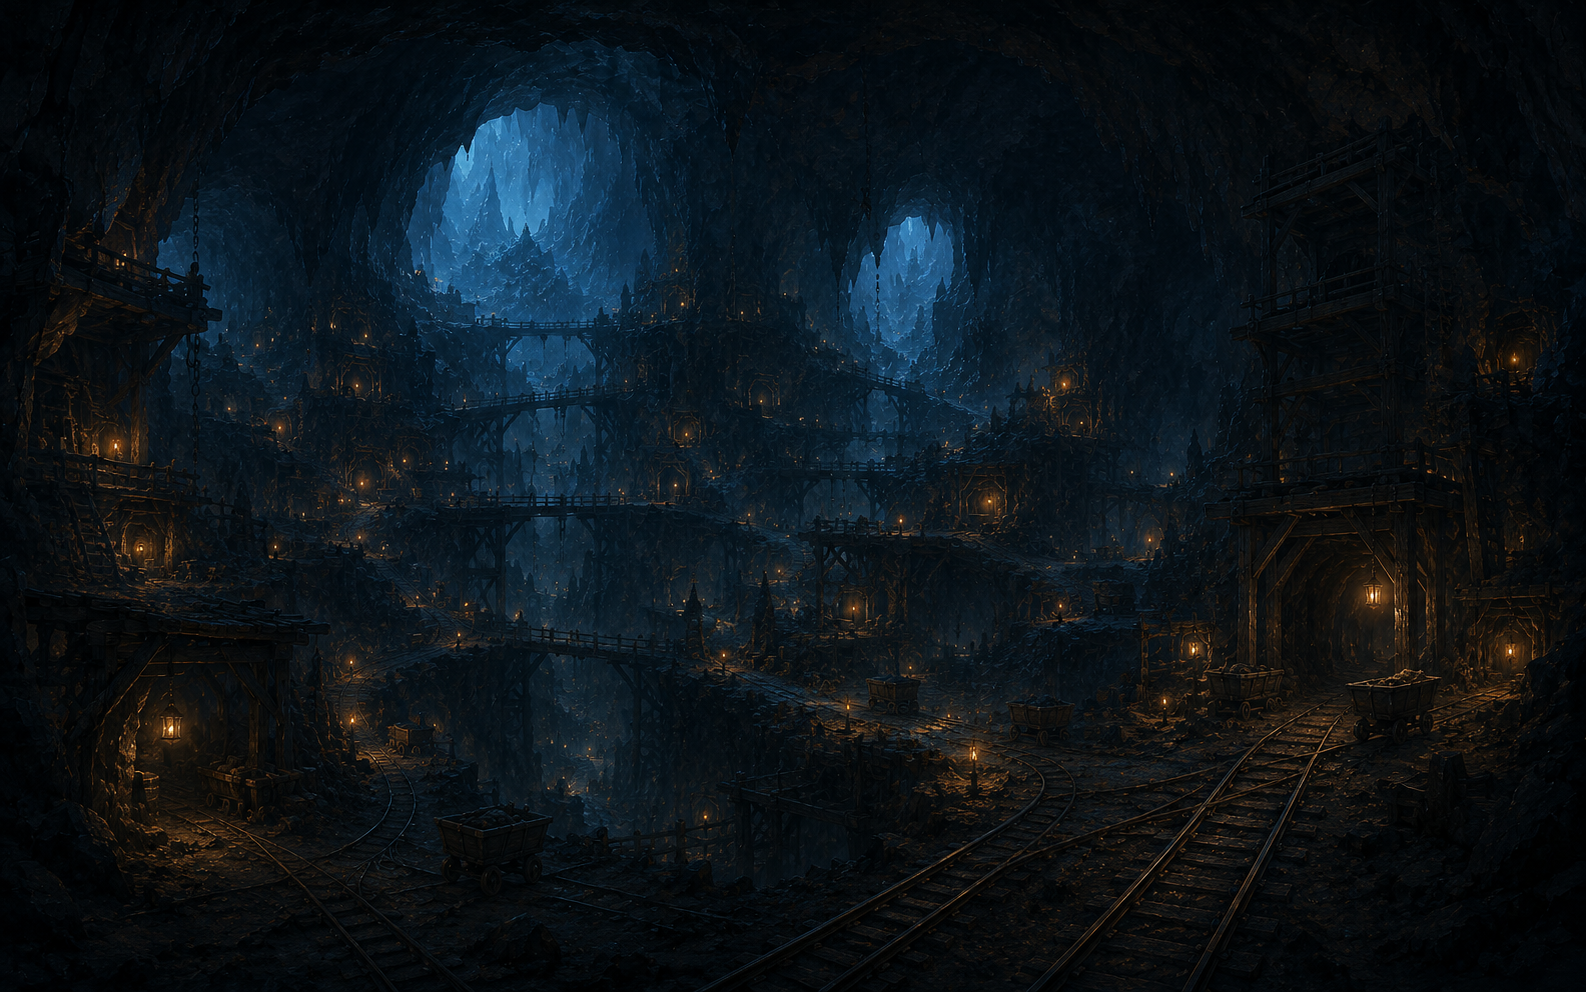
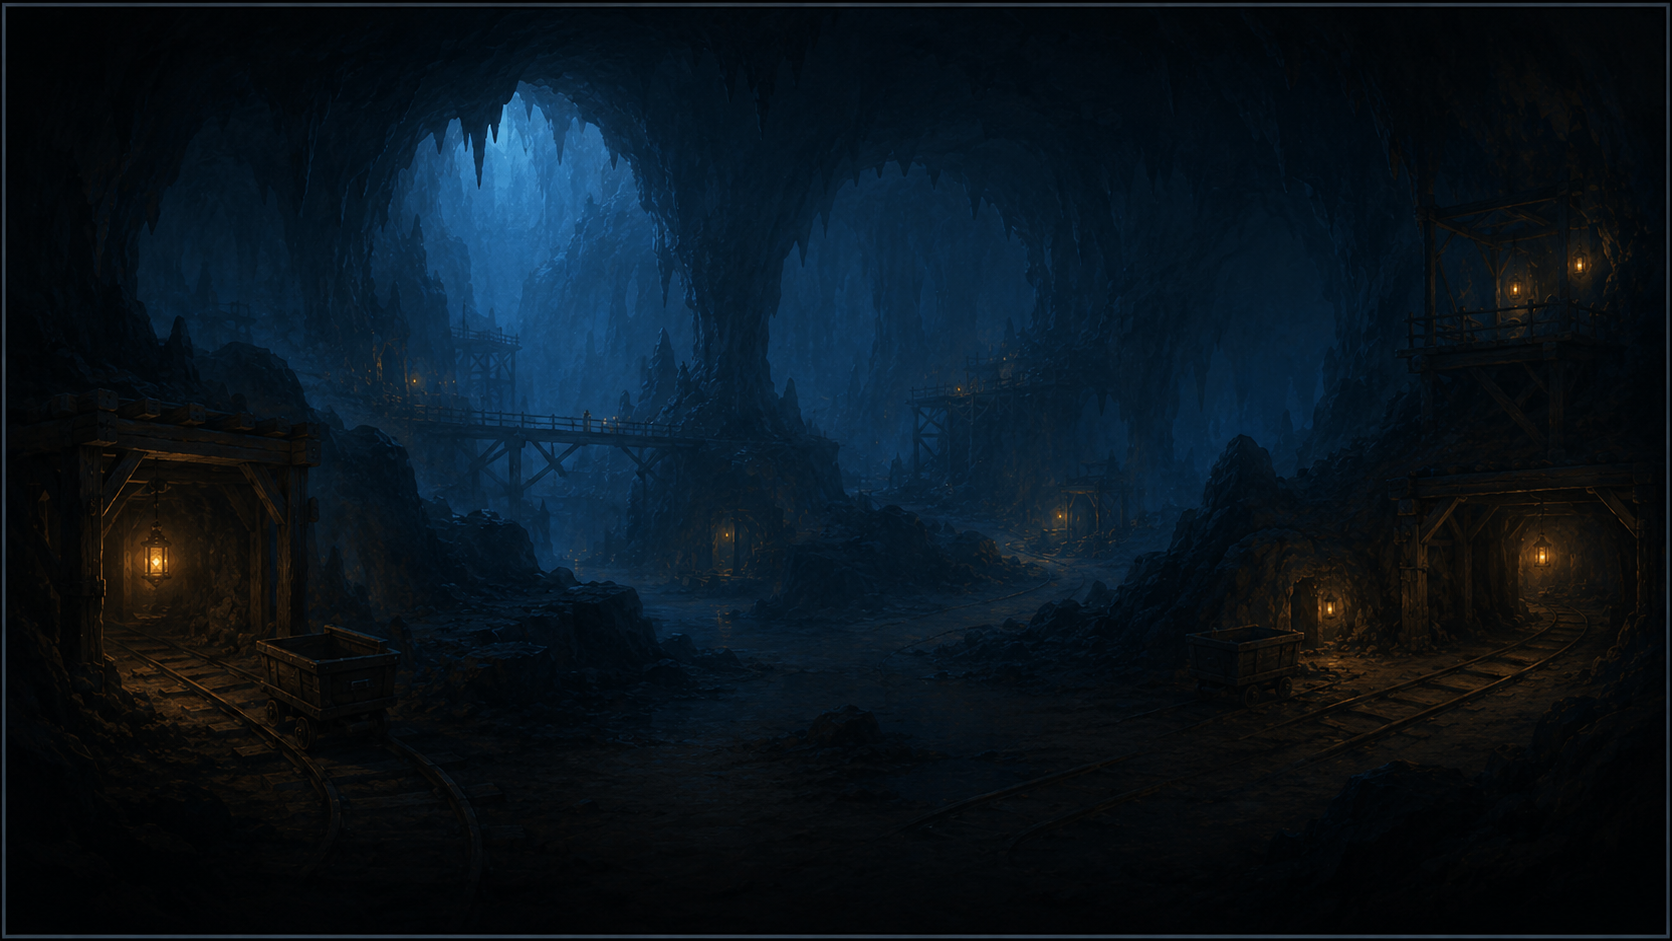
Cache descent map assets for PWA

Changed region(s): [[0.0, 0.0, 1.0, 1.0], [0.587, 0.8937, 0.6179, 0.9245]]

diff --git a/service-worker.js b/service-worker.js
@@ -4,14 +4,64 @@
   LOWFATHOM — app shell update hardening
   Bump CACHE_NAME whenever the shipped app shell changes.
 */
-const CACHE_NAME = "lowfathom-v0.091.0";
+const CACHE_NAME = "lowfathom-v0.100.20";
 
 const APP_SHELL = [
   "./",
   "./index.html",
   "./manifest.json",
   "./icons/icon-192.png",
-  "./icons/icon-512.png"
+  "./icons/icon-512.png",
+  "./assets/ui/bar-track-gold.webp",
+  "./assets/ui/bar-track-steel.webp",
+  "./assets/ui/divider-thin.webp",
+  "./assets/ui/frame-button-red.webp",
+  "./assets/ui/frame-button.webp",
+  "./assets/ui/frame-chip-teal.webp",
+  "./assets/ui/frame-chip.webp",
+  "./assets/ui/frame-panel.webp",
+  "./assets/ui/frame-square.webp",
+  "./assets/ui/frame-teal-wide.webp",
+  "./assets/ui/frame-teal.webp",
+  "./assets/ui/glyph-abilities.webp",
+  "./assets/ui/glyph-gear.webp",
+  "./assets/ui/glyph-guard.webp",
+  "./assets/ui/glyph-heavy.webp",
+  "./assets/ui/glyph-history.webp",
+  "./assets/ui/glyph-intent.webp",
+  "./assets/ui/glyph-pack.webp",
+  "./assets/ui/glyph-read.webp",
+  "./assets/ui/glyph-recover.webp",
+  "./assets/ui/glyph-run.webp",
+  "./assets/ui/glyph-sand.webp",
+  "./assets/ui/glyph-skull.webp",
+  "./assets/ui/glyph-strike.webp",
+  "./assets/ui/icon-abilities.webp",
+  "./assets/ui/icon-gear.webp",
+  "./assets/ui/icon-guard.webp",
+  "./assets/ui/icon-heavy.webp",
+  "./assets/ui/icon-history.webp",
+  "./assets/ui/icon-intent.webp",
+  "./assets/ui/icon-pack.webp",
+  "./assets/ui/icon-read.webp",
+  "./assets/ui/icon-recover.webp",
+  "./assets/ui/icon-run.webp",
+  "./assets/ui/icon-sand.webp",
+  "./assets/ui/icon-skull.webp",
+  "./assets/ui/icon-strike.webp",
+  "./assets/ui/ornament-star.webp",
+  "./assets/ui/pip-off.webp",
+  "./assets/ui/pip-on.webp",
+  "./assets/ui/portrait-ring.webp",
+  "./assets/ui/tex-gold.webp",
+  "./assets/ui/tex-stone-teal.webp",
+  "./assets/ui/tex-stone.webp",
+  "./assets/ui/bg-strata-1-500.png",
+  "./assets/ui/lantern-hq.png",
+  "./assets/ui/cave-mark.png",
+  "./assets/ui/boss-mark.png",
+  "./assets/ui/travel-merchant-mark.png",
+  "./assets/ui/camp-mark.png"
 ];
 
 self.addEventListener("install", event => {
